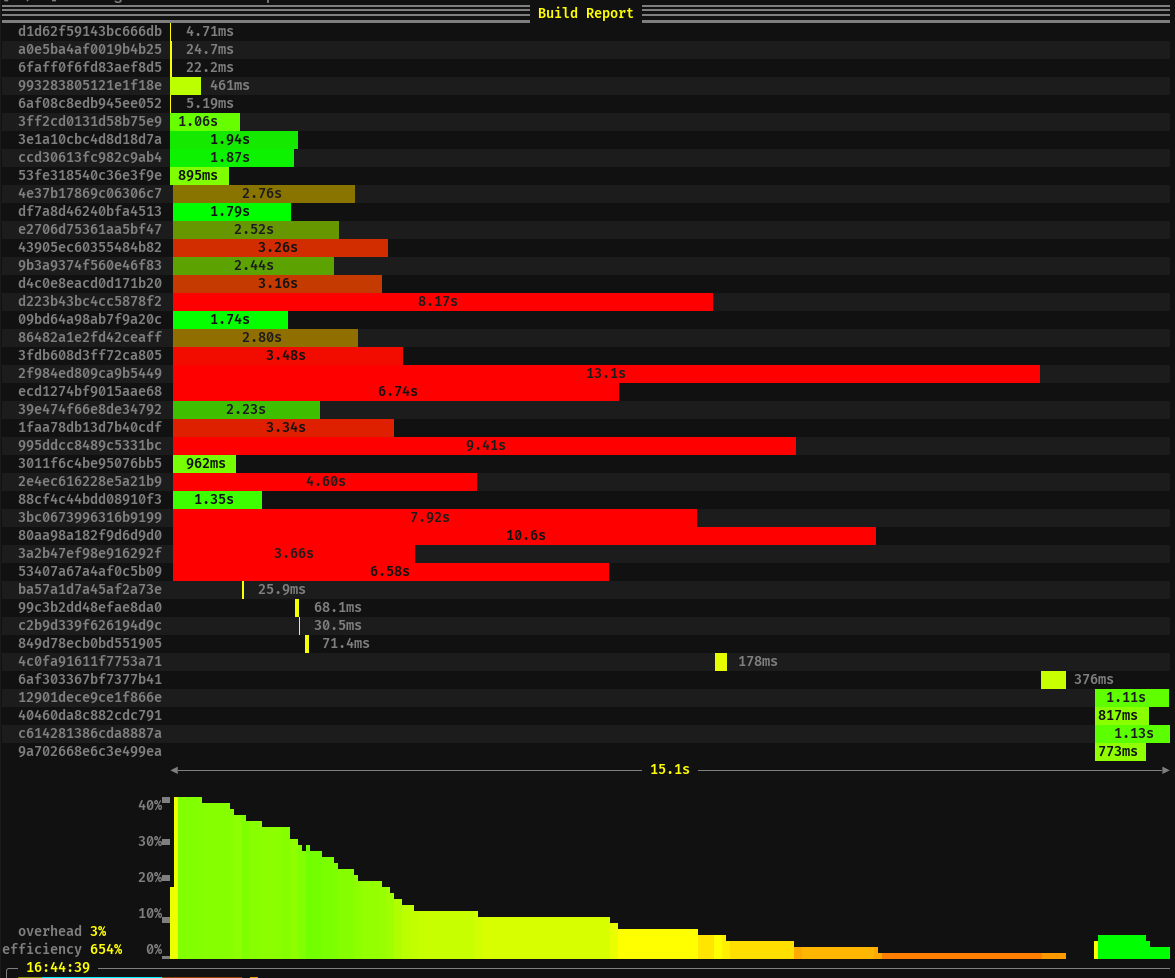
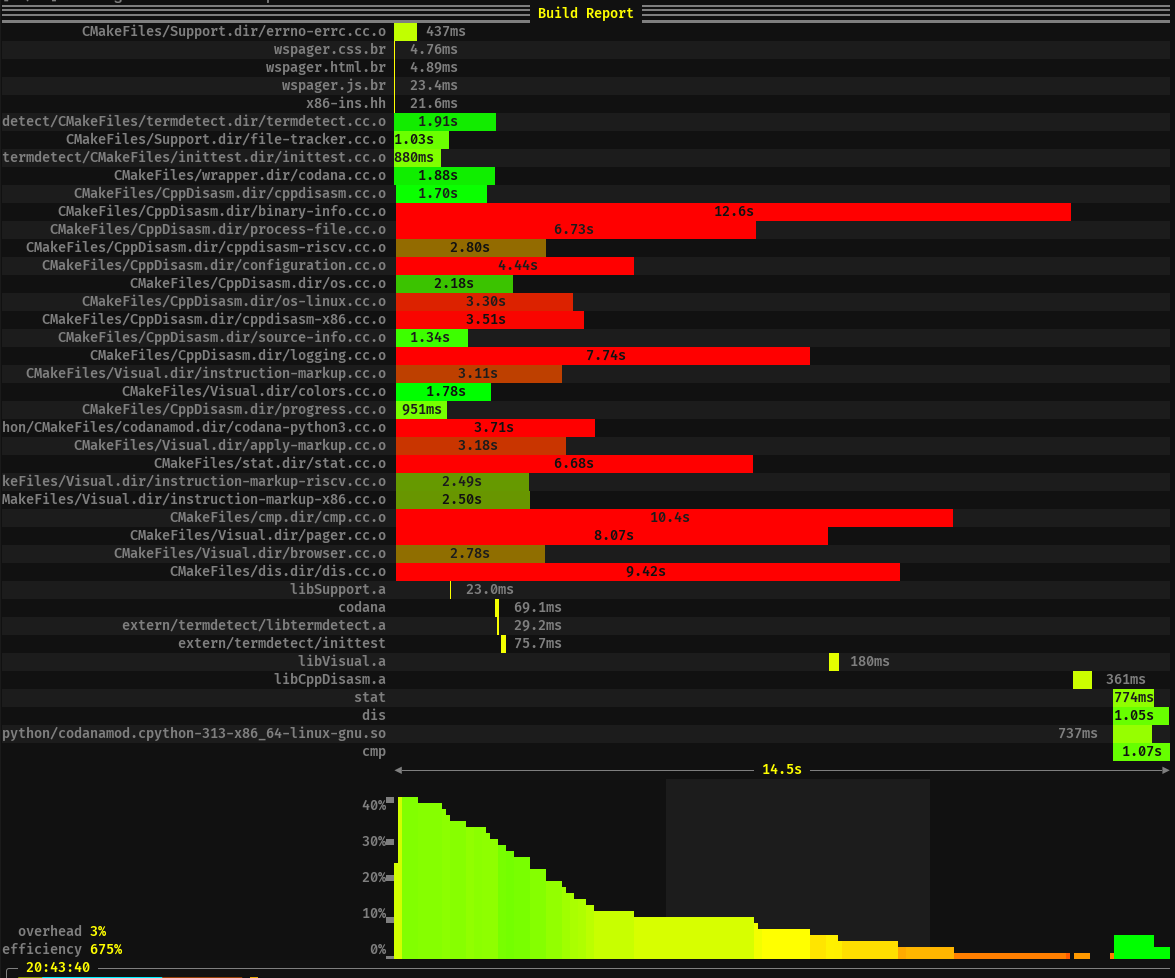
🚸 Add time segment indications to histogram

diff --git a/build-timing.py b/build-timing.py
@@ -352,7 +352,55 @@ def lerp_color(start: Tuple[int, int, int], end: Tuple[int, int, int], t: float)
     return ';'.join(str(int(start[i] + (end[i] - start[i]) * t)) for i in range(len(start)))
 
 
-def plot_histogram(labelwidth: int, histogram: List[int], remaining: List[int], njobs: int, overhead: int, efficiency: int) -> None:
+def quant_time(t: float) -> float:
+    """Determine time quantization for display.  We try to find a reasonable, multiple of 5 or 10, multiple of a unit
+    of time so that we have between 2 and two """
+    if t >= 3_600_000_000_000:
+        # No multi-hour support
+        return t
+    m = int(math.log10(t))
+    ts1 = int(10**m)
+    ts2 = 5 * int(10**(m-1))
+    ideal = 4
+    return (ts1 if abs(int(t / ts1) - ideal) < abs(int(t / ts2) - ideal) else ts2) / t
+
+
+def scaled_y(y: int, ticks: int, nvdots: int, factor_y: float) -> float:
+    """Scale the y coordinate to the count scale."""
+    return ((y - 1) * nvdots + ticks) / factor_y
+
+
+def get_axis_labels(nvert: int, njobs: int, factor_y: float, maxval: float) -> List[str]:
+    """Create the y-axis labels"""
+    graphdots = get_graphdots()
+    nvdots = round(math.sqrt(len(graphdots))) - 1
+
+    ncpus = os.cpu_count() or njobs
+    maxuse_percent = 100 * maxval / ncpus
+    maxuse_power10 = round(math.log(maxuse_percent, 10)) - 1
+    maxuse_normal = int(maxuse_percent / (10 ** maxuse_power10))
+    maxuse_step = (1 if maxuse_normal < 5 else 5 if maxuse_normal < 20 else 10) * (10 ** maxuse_power10)
+
+    res = ['']
+    for y in range(1, nvert + 1):
+        if y == 1:
+            label = '0%▁'
+        else:
+            utilization = [100 * scaled_y(y, i, nvdots, factor_y) / ncpus for i in range(nvdots + 1)]
+
+            label = ''
+            for i in range(nvdots):
+                if int(utilization[i] / maxuse_step) != int(utilization[i + 1] / maxuse_step):
+                    ldiff = -(utilization[i] - int(utilization[i + 1] / maxuse_step) * maxuse_step)
+                    hdiff = utilization[i + 1] - int(utilization[i + 1] / maxuse_step) * maxuse_step
+                    sep = ('🬭🬋🬂' if nvdots == 3 else '▂🭺🭸▔')[i + (0 if (i == nvdots - 1 or ldiff < hdiff) else 1)]
+                    label=f'{int(utilization[i + 1] / maxuse_step) * maxuse_step}%{sep}'
+                    break
+        res.append(label)
+    return res
+
+
+def plot_histogram(labelwidth: int, histogram: List[int], remaining: List[int], duration: float, njobs: int, overhead: int, efficiency: int) -> None:
     """Plot a histogram of utilization."""
     factor_x = NFRAC // NHDOTS
 
@@ -372,23 +420,23 @@ def plot_histogram(labelwidth: int, histogram: List[int], remaining: List[int], 
         factor_y = round(2 * min_vert * nvdots / maxval) / 2
         nvert = round((maxval * factor_y) / nvdots)
 
-    ncpus = os.cpu_count() or njobs
-    maxuse_percent = 100 * maxval / ncpus
-    maxuse_power10 = round(math.log(maxuse_percent, 10)) - 1
-    maxuse_normal = int(maxuse_percent / (10 ** maxuse_power10))
-    maxuse_step = (1 if maxuse_normal < 5 else 5 if maxuse_normal < 20 else 10) * (10 ** maxuse_power10)
+    labels = get_axis_labels(nvert, njobs, factor_y, maxval)
 
-    def scaled_y(y: int, ticks: int) -> float:
-        return ((y - 1) * nvdots + ticks) / factor_y
+    dt = round(len(reduced) * quant_time(duration))
 
     for y in range(nvert, 0, -1):
-        min_y = scaled_y(y, 0)
+        min_y = scaled_y(y, 0, nvdots, factor_y)
         ls = [min(max(0, round((v - min_y) * factor_y)), nvdots) for v in reduced]
 
         oklevel = 0.5
 
         s = ''
+        last_bg_colored = True
         for t in range(0, len(ls), 2):
+            if ((t // dt) % 2 == 1) != last_bg_colored:
+                s += COLOR_OFF if last_bg_colored else COLOR_BG
+                last_bg_colored = not last_bg_colored
+
             if ls[t] + ls[t + 1] > 0:
                 frac = (reduced[t] + reduced[t + 1] + 1) / (remaining_reduced[t] + remaining_reduced[t + 1])
                 if frac >= oklevel:
@@ -398,20 +446,7 @@ def plot_histogram(labelwidth: int, histogram: List[int], remaining: List[int], 
             s += graphdots[ls[t] + (nvdots + 1) * ls[t + 1]]
         s += COLOR_OFF
 
-        if y == 1:
-            label = '0%▁'
-        else:
-            utilization = [100 * scaled_y(y, i) / ncpus for i in range(nvdots + 1)]
-
-            label = ''
-            for i in range(nvdots):
-                if int(utilization[i] / maxuse_step) != int(utilization[i + 1] / maxuse_step):
-                    ldiff = -(utilization[i] - int(utilization[i + 1] / maxuse_step) * maxuse_step)
-                    hdiff = utilization[i + 1] - int(utilization[i + 1] / maxuse_step) * maxuse_step
-                    sep = ('🬭🬋🬂' if nvdots == 3 else '▂🭺🭸▔')[i + (0 if (i == nvdots - 1 or ldiff < hdiff) else 1)]
-                    label=f'{int(utilization[i + 1] / maxuse_step) * maxuse_step}%{sep}'
-                    break
-
+        label = labels[y]
         if y <= 2:
             if y == 2:
                 r = f'  overhead {COLOR_EMPH}{overhead}%{COLOR_OFF}'
@@ -464,7 +499,7 @@ def main(argv: List[str]) -> None:
     print(f'{" "*labelwidth} ◀{totalfmt:─^{barwidth - 2 + len(COLOR_EMPH) + len(COLOR_OFF)}}▶')
 
     assert len(histogram) == NFRAC * barwidth
-    plot_histogram(labelwidth, histogram, remaining, len(coords), percent(1 - tbusy / nsteps), percent(efficiency))
+    plot_histogram(labelwidth, histogram, remaining, duration, len(coords), percent(1 - tbusy / nsteps), percent(efficiency))
 
 
 if __name__ == '__main__':
